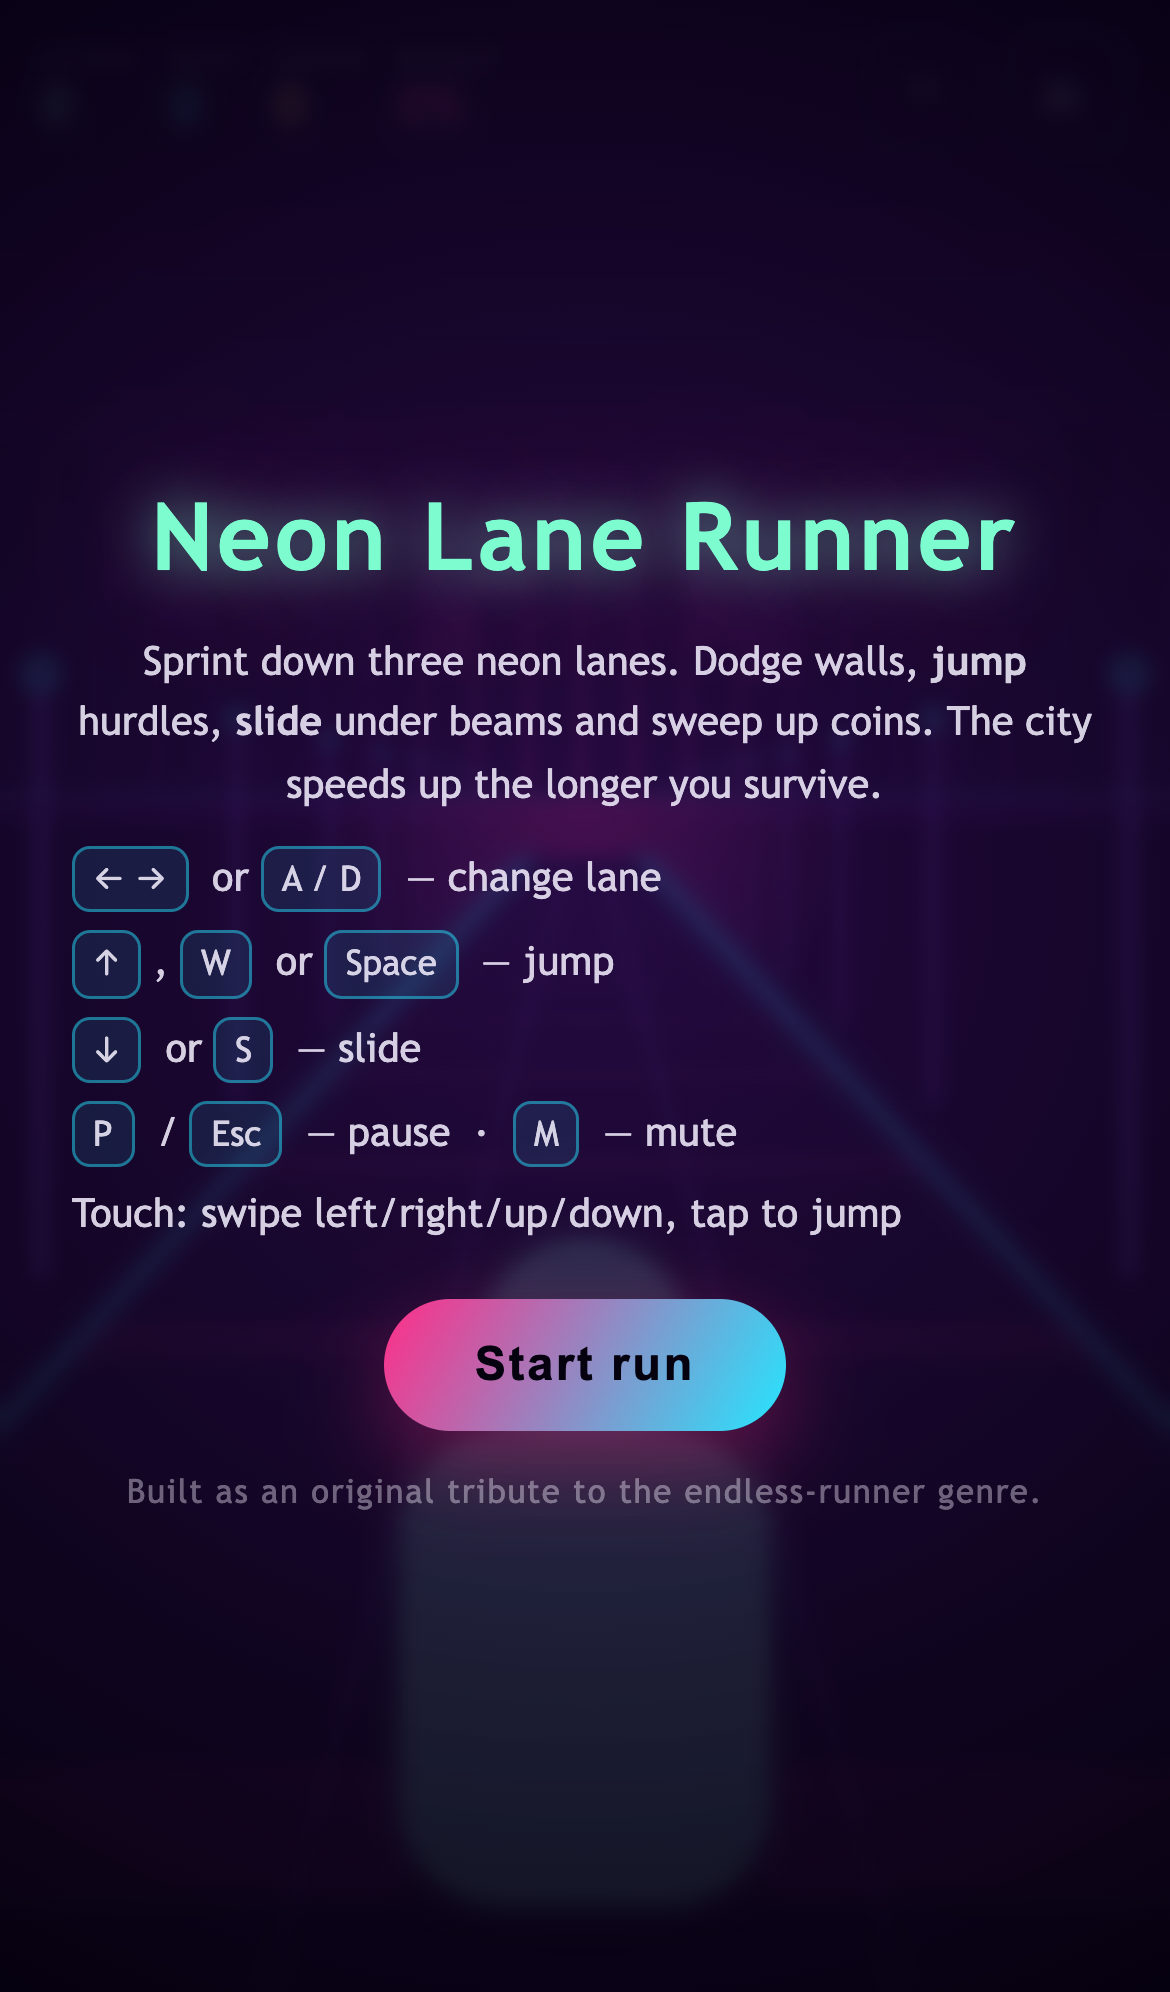
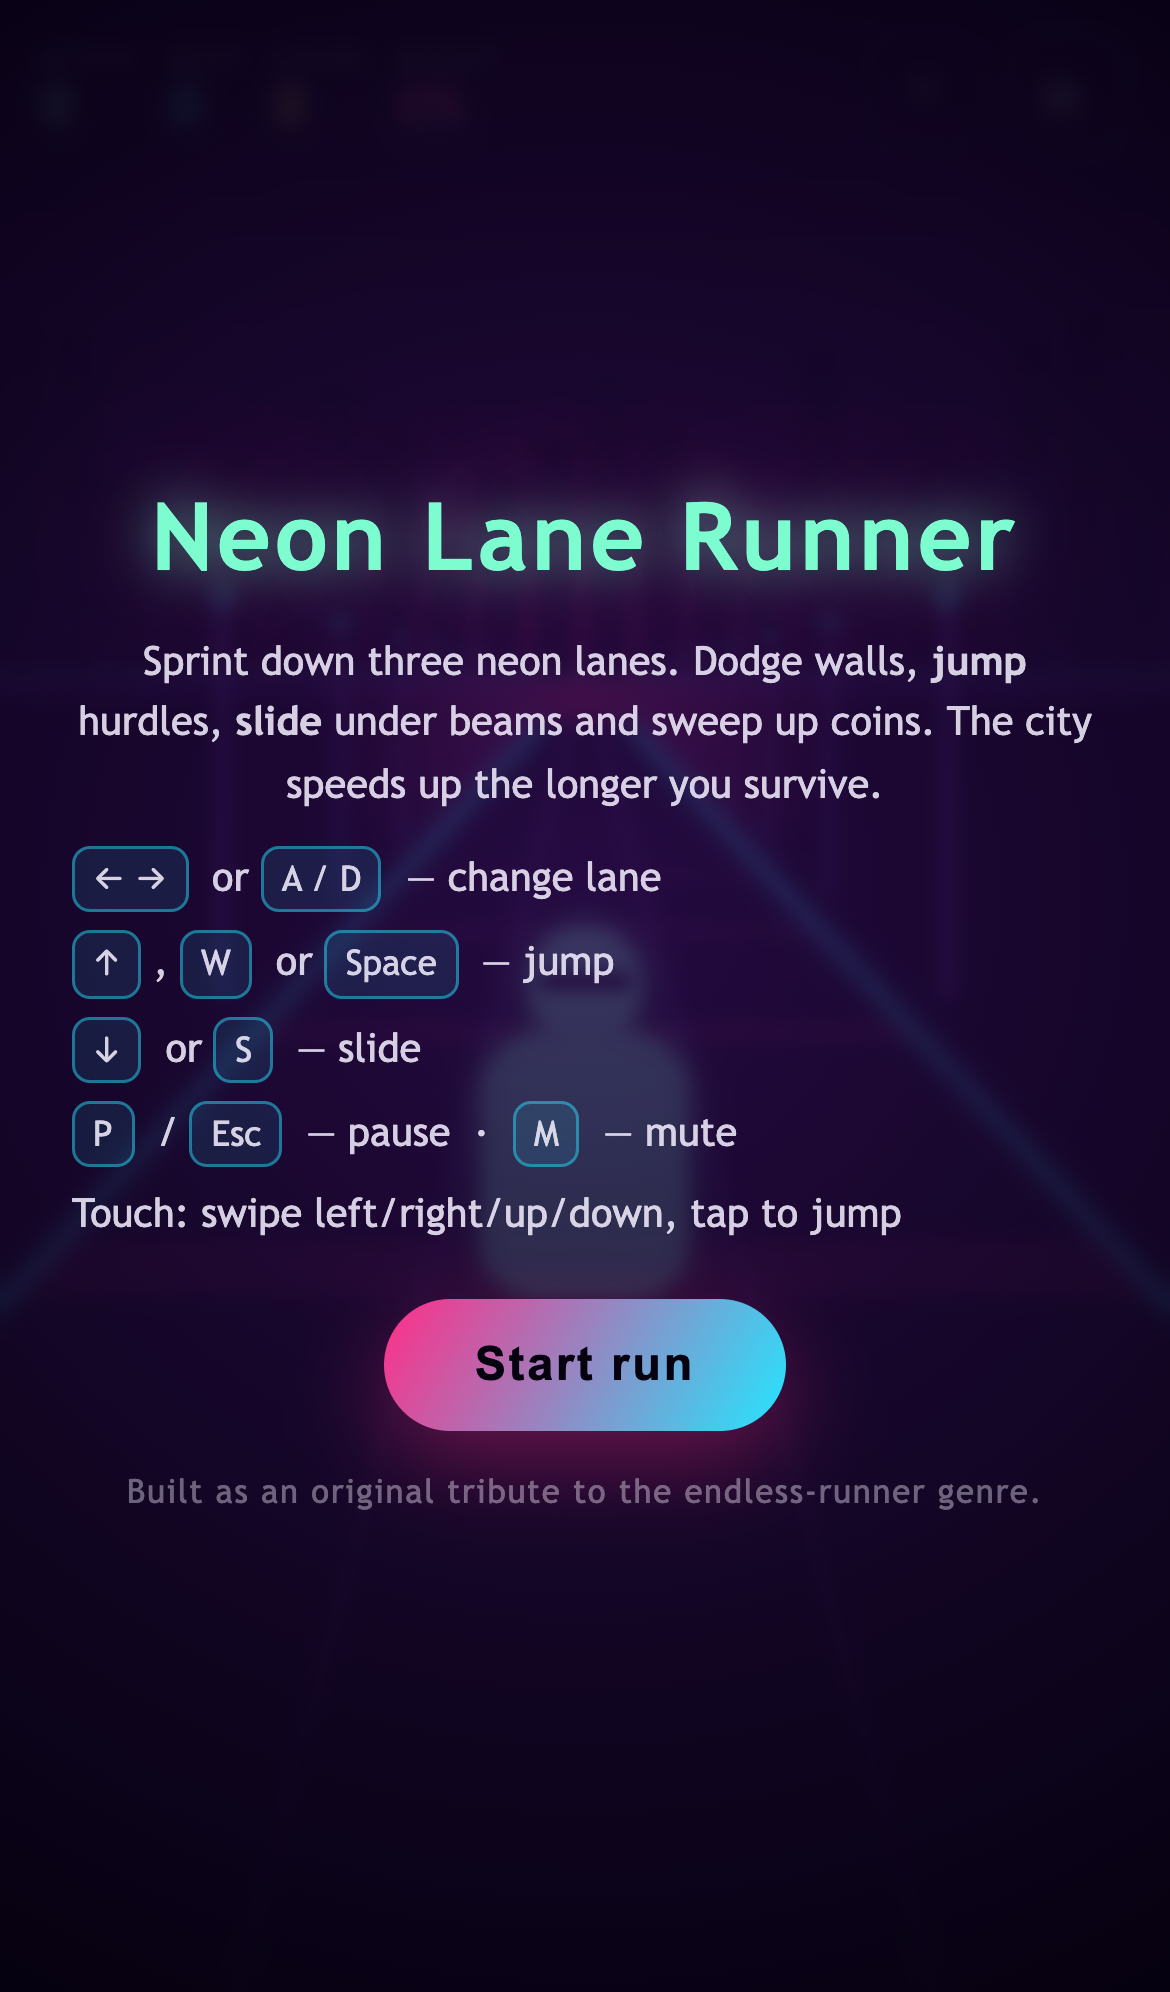
Pull the camera back on portrait viewports
On a phone the runner was drawn about a third of the screen wide, covering the
near lane and crowding the touch pads. The old fix for narrow screens was a
longer focal length, which magnified the runner along with everything else.

Move the camera from 6.2 to 8.6 units back on portrait and shorten the focal
length instead, and raise the horizon slightly. Desktop keeps its previous
values, so wide-viewport framing is unchanged. camBack and the near clip plane
are now instance fields rather than module constants.

diff --git a/src/game/render.ts b/src/game/render.ts
@@ -3,13 +3,15 @@ import { playerHeight } from './logic';
 import type { Coin, GameState, Obstacle } from './types';
 
 const CENTER_LANE = (CONFIG.laneCount - 1) / 2;
-/** Camera sits this far behind the runner. */
-const CAM_BACK = 6.2;
+/** Camera distance behind the runner. Portrait pulls back so the tall, narrow
+ *  viewport does not fill up with the runner itself. */
+const CAM_BACK_WIDE = 6.2;
+const CAM_BACK_TALL = 8.6;
 const CAM_HEIGHT = 2.55;
 const ROAD_HALF = CONFIG.laneCount * CONFIG.laneWidth * 0.5 + 0.35;
 const FAR_Z = CONFIG.spawnDistance + 12;
-/** Near clip plane: just in front of the camera, so the road fills the bottom edge. */
-const NEAR_Z = -CAM_BACK + 1.1;
+/** Gap kept between the camera and the near clip plane. */
+const NEAR_GAP = 1.1;
 const ROAD_HALF_LANES = ROAD_HALF / CONFIG.laneWidth;
 
 const PALETTE = {
@@ -46,6 +48,9 @@ export class Renderer {
   private w = 0;
   private h = 0;
   private dpr = 1;
+  private camBack = CAM_BACK_WIDE;
+  /** Near clip plane, just in front of the camera. */
+  private nearZ = -CAM_BACK_WIDE + NEAR_GAP;
   private focal = 0;
   private horizon = 0;
   private cx = 0;
@@ -75,14 +80,17 @@ export class Renderer {
     this.w = cssWidth;
     this.h = cssHeight;
     this.cx = cssWidth / 2;
-    // Narrow (portrait) viewports need a longer focal length to keep lanes readable.
-    const aspect = cssWidth / cssHeight;
-    this.focal = cssHeight * (aspect < 0.8 ? 1.35 : 1.0);
-    this.horizon = cssHeight * 0.4;
+    // Portrait viewports pull the camera back and shorten the focal length, so
+    // the three lanes stay readable without the runner swallowing the screen.
+    const portrait = cssWidth / cssHeight < 0.8;
+    this.camBack = portrait ? CAM_BACK_TALL : CAM_BACK_WIDE;
+    this.nearZ = -this.camBack + NEAR_GAP;
+    this.focal = cssHeight * (portrait ? 1.05 : 1.0);
+    this.horizon = cssHeight * (portrait ? 0.34 : 0.4);
   }
 
   private project(laneX: number, y: number, z: number): Point | null {
-    const d = z + CAM_BACK;
+    const d = z + this.camBack;
     if (d <= 0.35) return null;
     const scale = this.focal / d;
     return {
@@ -92,7 +100,7 @@ export class Renderer {
   }
 
   private scaleAt(z: number): number {
-    return this.focal / Math.max(0.35, z + CAM_BACK);
+    return this.focal / Math.max(0.35, z + this.camBack);
   }
 
   burst(count: number, x: number, y: number, color: string, power = 220): void {
@@ -197,8 +205,8 @@ export class Renderer {
 
   private drawRoad(state: GameState): void {
     const ctx = this.ctx;
-    const nearL = this.project(CENTER_LANE - ROAD_HALF_LANES, 0, NEAR_Z);
-    const nearR = this.project(CENTER_LANE + ROAD_HALF_LANES, 0, NEAR_Z);
+    const nearL = this.project(CENTER_LANE - ROAD_HALF_LANES, 0, this.nearZ);
+    const nearR = this.project(CENTER_LANE + ROAD_HALF_LANES, 0, this.nearZ);
     const farL = this.project(CENTER_LANE - ROAD_HALF_LANES, 0, FAR_Z);
     const farR = this.project(CENTER_LANE + ROAD_HALF_LANES, 0, FAR_Z);
     if (!nearL || !nearR || !farL || !farR) return;
@@ -217,7 +225,7 @@ export class Renderer {
     const phase = state.distance % spacing;
     for (let i = 0; i < 18; i++) {
       const z = i * spacing - phase;
-      if (z < NEAR_Z) continue;
+      if (z < this.nearZ) continue;
       const a = this.project(0, 0, z);
       const b = this.project(0, 0, z + 0.9);
       if (!a || !b) continue;
@@ -238,7 +246,7 @@ export class Renderer {
     ctx.lineWidth = 2;
     for (let l = 0; l < CONFIG.laneCount - 1; l++) {
       const laneX = l + 0.5;
-      const a = this.project(laneX, 0, NEAR_Z);
+      const a = this.project(laneX, 0, this.nearZ);
       const b = this.project(laneX, 0, FAR_Z);
       if (!a || !b) continue;
       ctx.beginPath();
@@ -253,7 +261,7 @@ export class Renderer {
     ctx.shadowColor = PALETTE.roadEdge;
     ctx.shadowBlur = 16;
     for (const side of [-1, 1]) {
-      const a = this.project(CENTER_LANE + side * ROAD_HALF_LANES, 0, NEAR_Z);
+      const a = this.project(CENTER_LANE + side * ROAD_HALF_LANES, 0, this.nearZ);
       const b = this.project(CENTER_LANE + side * ROAD_HALF_LANES, 0, FAR_Z);
       if (!a || !b) continue;
       ctx.beginPath();
@@ -270,7 +278,7 @@ export class Renderer {
     const phase = state.distance % spacing;
     for (let i = 12; i >= 0; i--) {
       const z = i * spacing - phase;
-      if (z < NEAR_Z) continue;
+      if (z < this.nearZ) continue;
       for (const side of [-1, 1]) {
         const laneX = CENTER_LANE + (side * (ROAD_HALF + 0.5)) / CONFIG.laneWidth;
         const base = this.project(laneX, 0, z);
@@ -319,8 +327,8 @@ export class Renderer {
             : PALETTE.tram;
     const hw = 0.4;
     const zf = o.z + o.depth;
-    if (zf <= NEAR_Z) return;
-    const zn = Math.max(o.z, NEAR_Z);
+    if (zf <= this.nearZ) return;
+    const zn = Math.max(o.z, this.nearZ);
 
     const p = (dx: number, y: number, z: number) =>
       this.project(o.lane + dx, y, z);
